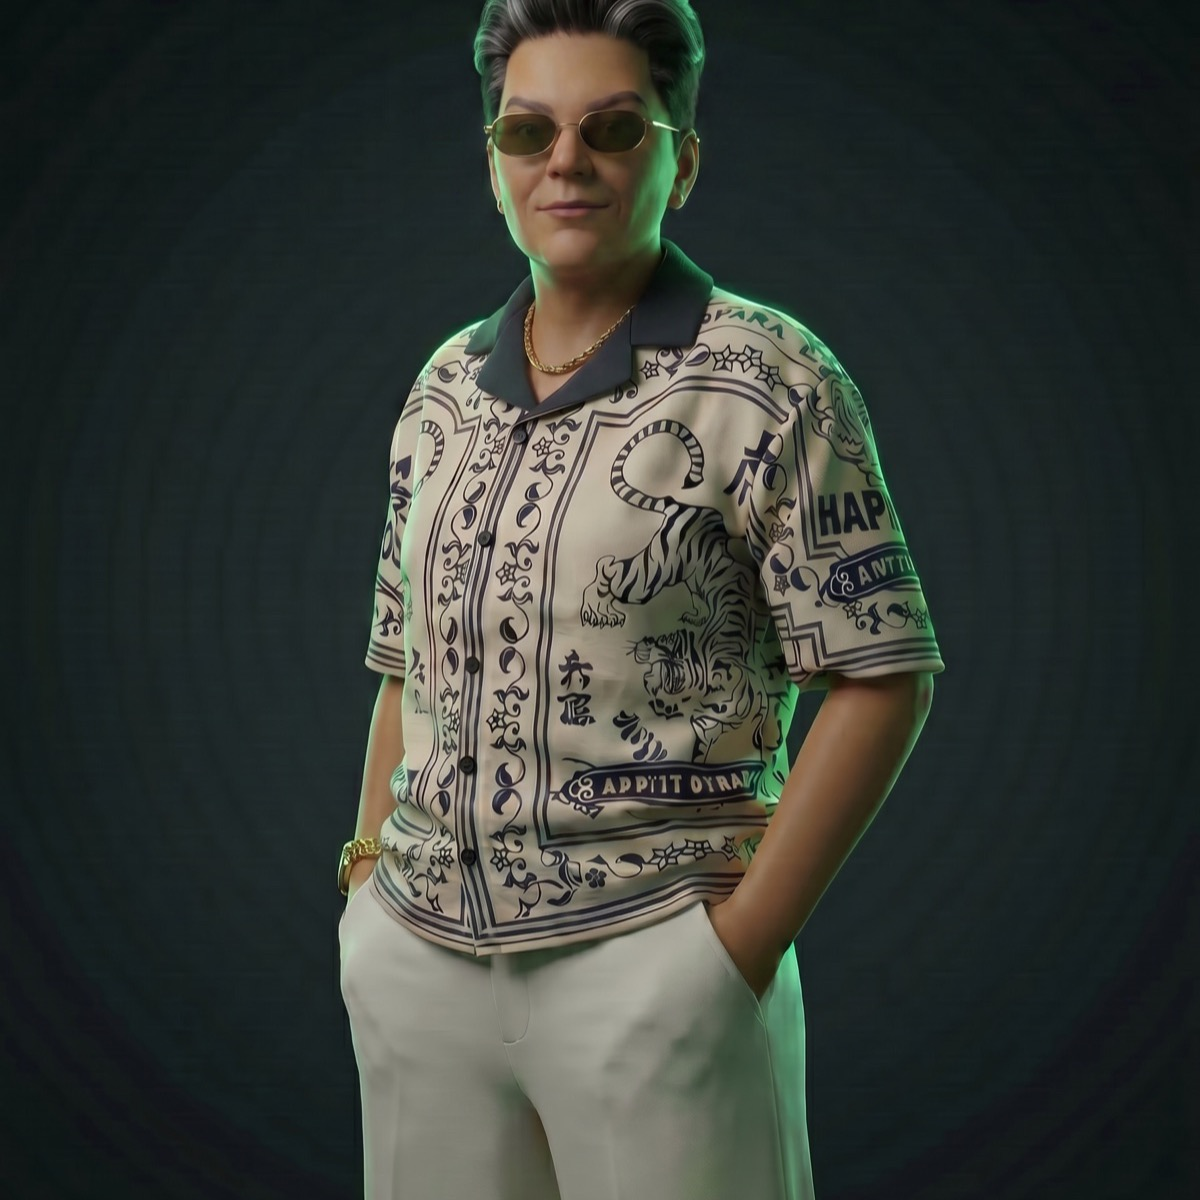
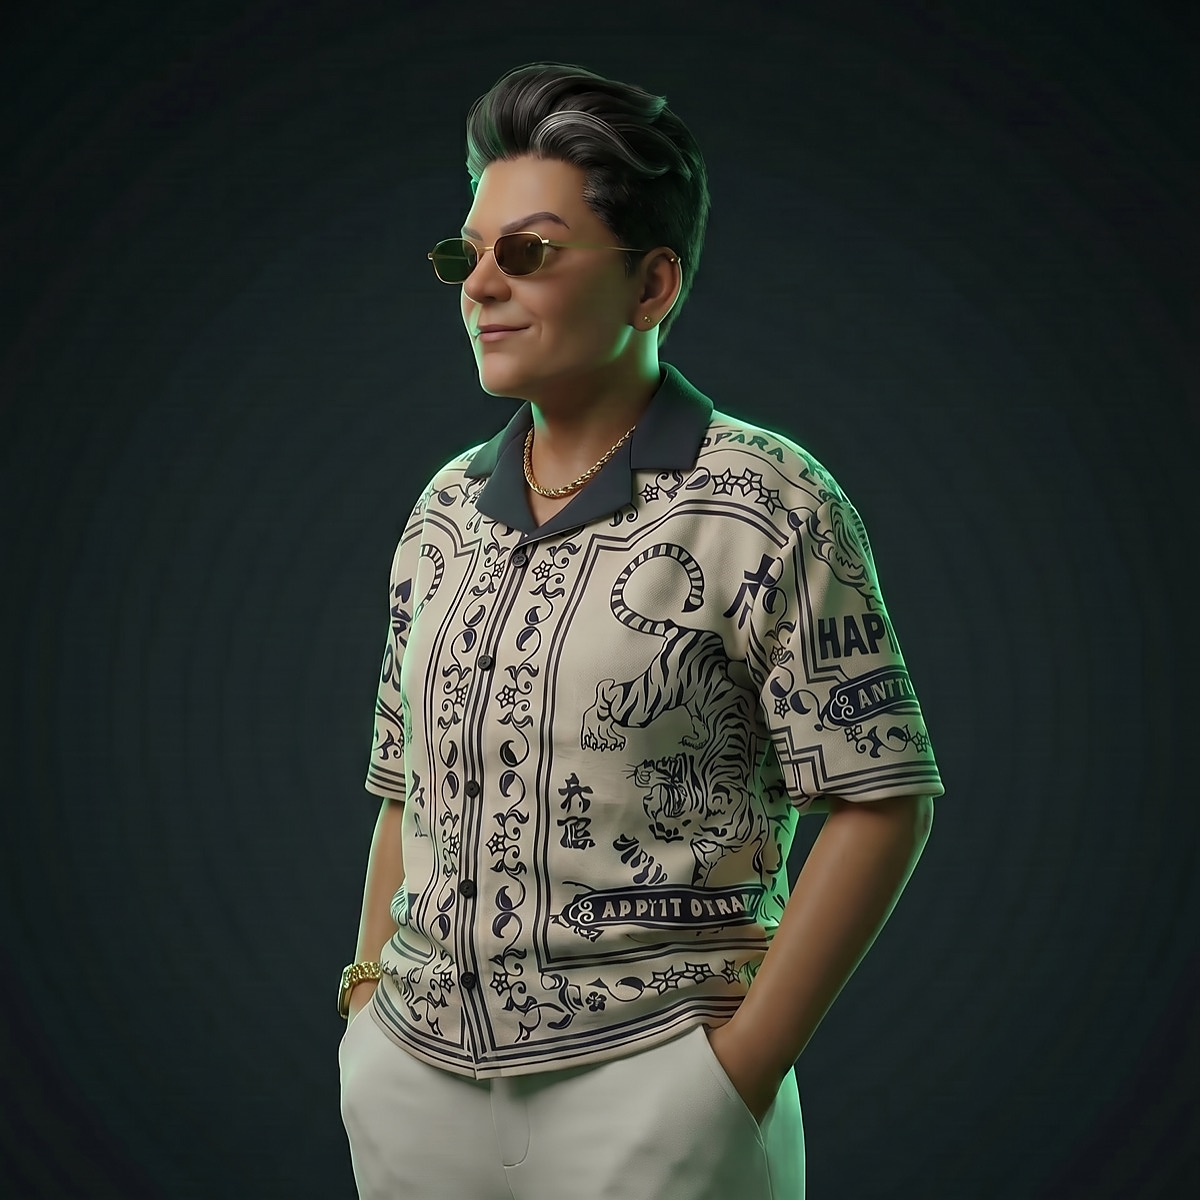
feat: form hardening · SEO/a11y basics · refined og:image & LinkedIn DP
OG IMAGE
- Removed smooth radial gradient (was causing 8-bit banding)
- Replaced with site-style dotted halftone + film grain across the whole
  image — kills any banding and adds editorial print feel

LINKEDIN DP
- Now uses the side-profile portrait (per design call)
- JPG quality 95, centered crop with face anchored for the circular crop
- Slight unsharp mask for tiny-thumb readability

FORM HARDENING
- autoComplete attrs on Name / Email / Phone (better UX)
- minLength on Name (2) and Message (10) — anti-spam
- maxLength caps on all inputs — anti-abuse
- inputMode email/tel for mobile keyboards

SEO / A11Y
- robots.txt: allow-all + explicit AI-bot opt-in (GPT, Claude, Perplexity)
- sitemap.xml: home + #work + #about + #contact anchors
- <noscript> fallback with branded error + contact details
- Skip-to-content keyboard accessibility link

Changed region(s): [[0.2775, 0.0, 0.8017, 1.0]]

diff --git a/index.html b/index.html
@@ -39,6 +39,37 @@
     />
   </head>
   <body>
+    <!-- Skip to main content — keyboard / screen-reader accessibility -->
+    <a href="#work" class="skip-to-content">Skip to main content</a>
+
+    <!-- JS-disabled fallback -->
+    <noscript>
+      <div style="
+        max-width: 640px;
+        margin: 8rem auto;
+        padding: 2rem;
+        font-family: -apple-system, BlinkMacSystemFont, 'Segoe UI', sans-serif;
+        color: #fff;
+        background-color: #08090C;
+        border: 1px solid rgba(255,255,255,0.1);
+        border-radius: 4px;
+        text-align: center;
+        line-height: 1.6;
+      ">
+        <h1 style="color: #00FF41; font-size: 1.5rem; margin: 0 0 1rem;">JavaScript Required</h1>
+        <p style="margin: 0 0 1rem; color: rgba(255,255,255,0.75);">
+          Ayeshna Vinayak's portfolio is built with React and needs JavaScript enabled to run.
+          Please turn JavaScript on in your browser to view the work.
+        </p>
+        <p style="margin: 0;">
+          In the meantime, you can reach Ayeshna at
+          <a href="mailto:ayeshna19@icloud.com" style="color: #00FF41;">ayeshna19@icloud.com</a>
+          or on
+          <a href="https://www.linkedin.com/in/ayeshna-vinayak/" style="color: #00FF41;">LinkedIn</a>.
+        </p>
+      </div>
+    </noscript>
+
     <div id="root"></div>
     <script type="module" src="/src/main.jsx"></script>
   </body>

diff --git a/src/sections/Contact.jsx b/src/sections/Contact.jsx
@@ -199,6 +199,9 @@ function Contact() {
                   value={form.name}
                   onChange={handleChange}
                   required
+                  autoComplete="name"
+                  minLength={2}
+                  maxLength={80}
                 />
               </div>
 
@@ -213,6 +216,9 @@ function Contact() {
                   value={form.email}
                   onChange={handleChange}
                   required
+                  autoComplete="email"
+                  maxLength={120}
+                  inputMode="email"
                 />
               </div>
 
@@ -226,6 +232,9 @@ function Contact() {
                   placeholder="+44 ..."
                   value={form.phone}
                   onChange={handleChange}
+                  autoComplete="tel"
+                  maxLength={20}
+                  inputMode="tel"
                 />
               </div>
 
@@ -240,6 +249,8 @@ function Contact() {
                   value={form.message}
                   onChange={handleChange}
                   required
+                  minLength={10}
+                  maxLength={2000}
                 />
               </div>
 

diff --git a/src/styles/global.css b/src/styles/global.css
@@ -32,3 +32,30 @@ h5,
 h6 {
   font-family: 'Heavitas', sans-serif;
 }
+
+/* ==========================================================================
+   Skip to content — invisible until keyboard-focused (accessibility)
+   ========================================================================== */
+.skip-to-content {
+  position: fixed;
+  top: -40px;
+  left: 1rem;
+  z-index: 9999;
+  padding: 0.6rem 1rem;
+  border-radius: 4px;
+  background-color: var(--accent);
+  color: #08090C;
+  font-family: 'Lato', sans-serif;
+  font-weight: 700;
+  font-size: 0.85rem;
+  text-decoration: none;
+  letter-spacing: 0.02em;
+  transition: top 0.2s ease;
+}
+
+.skip-to-content:focus,
+.skip-to-content:focus-visible {
+  top: 1rem;
+  outline: 2px solid #08090C;
+  outline-offset: 2px;
+}
